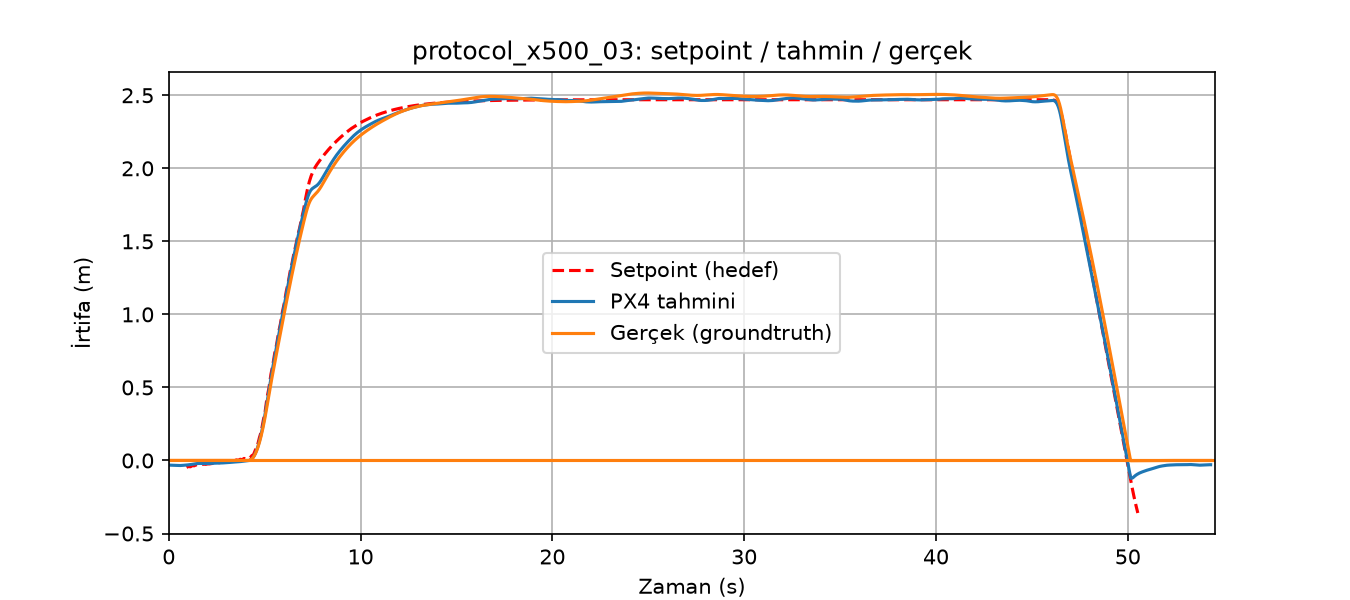
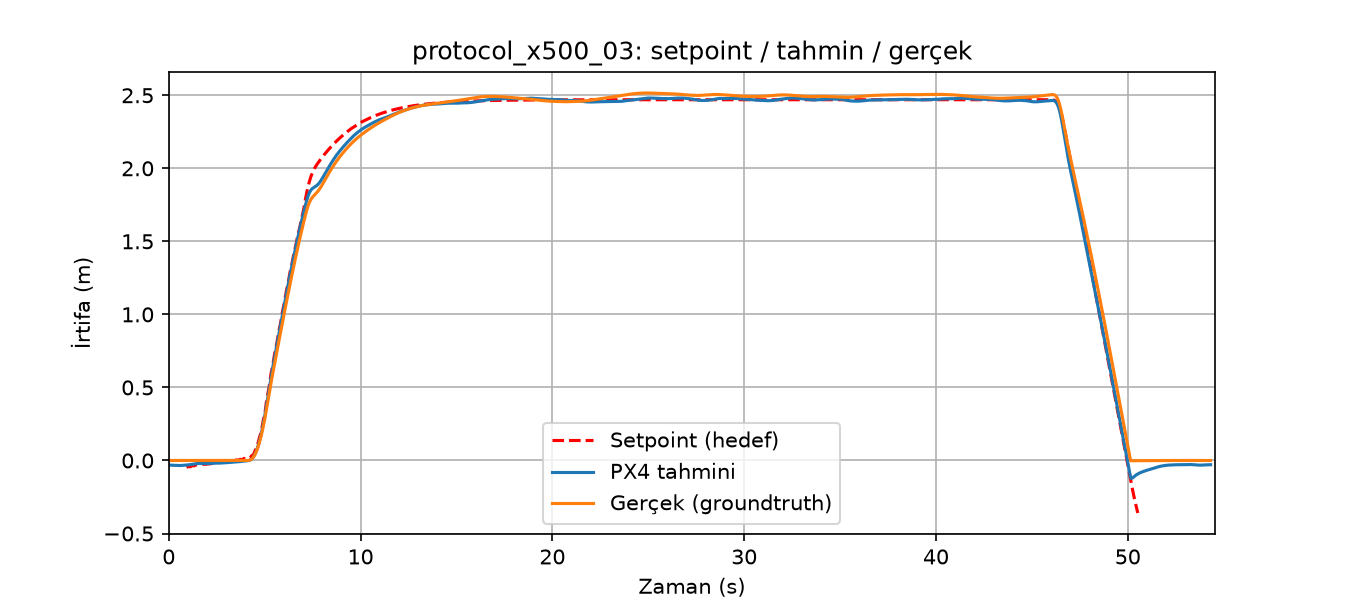
Zaman damgasi cikarma hatasi duzeltildi, grafikler yeniden uretildi

Changed region(s): [[0.1867, 0.69, 0.84, 0.9], [0.4044, 0.42, 0.6222, 0.6]]

diff --git a/analysis/hover_trace.py b/analysis/hover_trace.py
@@ -6,7 +6,7 @@ est = pd.DataFrame(u.get_dataset("vehicle_local_position").data)
 sp = pd.DataFrame(u.get_dataset("vehicle_local_position_setpoint").data)
 gt = pd.DataFrame(u.get_dataset("vehicle_local_position_groundtruth").data)
 t0 = est["timestamp"].iloc[0]
-sec = lambda d: ((d["timestamp"] - t0) / 1e6).to_numpy()
+sec = lambda d: ((d["timestamp"].astype("int64") - int(t0)) / 1e6).to_numpy()
 te, ae = sec(est), (-est["z"]).to_numpy()
 ts, asp = sec(sp), (-sp["z"]).to_numpy()
 tg, ag = sec(gt), (-gt["z"]).to_numpy()

diff --git a/analysis/summarize.py b/analysis/summarize.py
@@ -12,7 +12,7 @@ for path in sorted(glob.glob("logs/*.ulg")):
     cmd = float(u.initial_parameters.get("MIS_TAKEOFF_ALT", 2.5))
 
     t0 = est["timestamp"].iloc[0]
-    sec = lambda d: ((d["timestamp"] - t0) / 1e6).to_numpy()
+    sec = lambda d: ((d["timestamp"].astype("int64") - int(t0)) / 1e6).to_numpy()
     te, ae = sec(est), (-est["z"]).to_numpy()
     ts, asp = sec(sp), (-sp["z"]).to_numpy()
     tg, ag = sec(gt), (-gt["z"]).to_numpy()

diff --git a/analysis/compare_altitude.py b/analysis/compare_altitude.py
@@ -14,7 +14,7 @@ gt = pd.DataFrame(ulog.get_dataset("vehicle_local_position_groundtruth").data)
 
 t_start = est["timestamp"].iloc[0]
 def tsec(df):
-    return ((df["timestamp"] - t_start) / 1e6).to_numpy()
+    return ((df["timestamp"].astype("int64") - int(t_start)) / 1e6).to_numpy()
 
 t_e, a_e = tsec(est), (-est["z"]).to_numpy()
 t_s, a_s = tsec(sp), (-sp["z"]).to_numpy()

diff --git a/README.md b/README.md
@@ -68,3 +68,7 @@ python3 -m venv .venv
 ```
 
 Raw logs are not in the repository. The tables above come from `reports/summary.csv`.
+
+## Corrections
+
+- A timestamp subtraction used unsigned integers. In logs where the first ground-truth sample precedes the first estimate sample (six of nine x500 logs and both VTOL logs), some plots and the time-trace script showed a wrong flat ground-truth line. Fixed with signed subtraction. The summary tables were identical before and after the fix (diff of summary.csv), so the x500 results above are unchanged.
